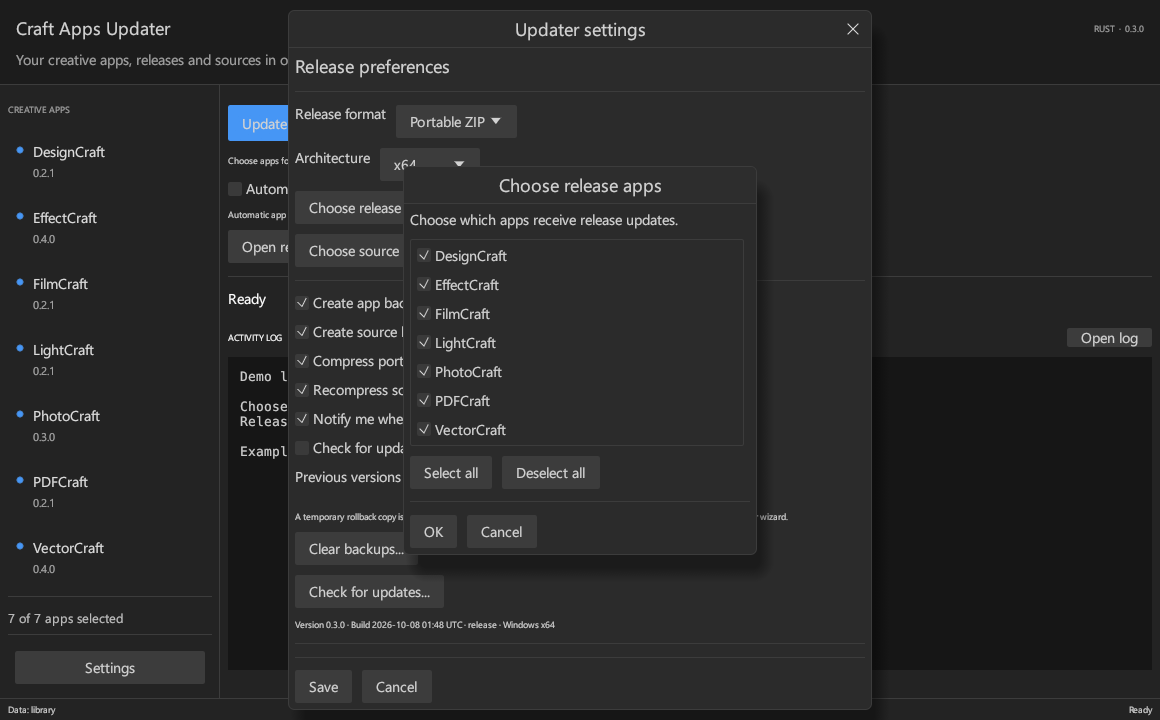
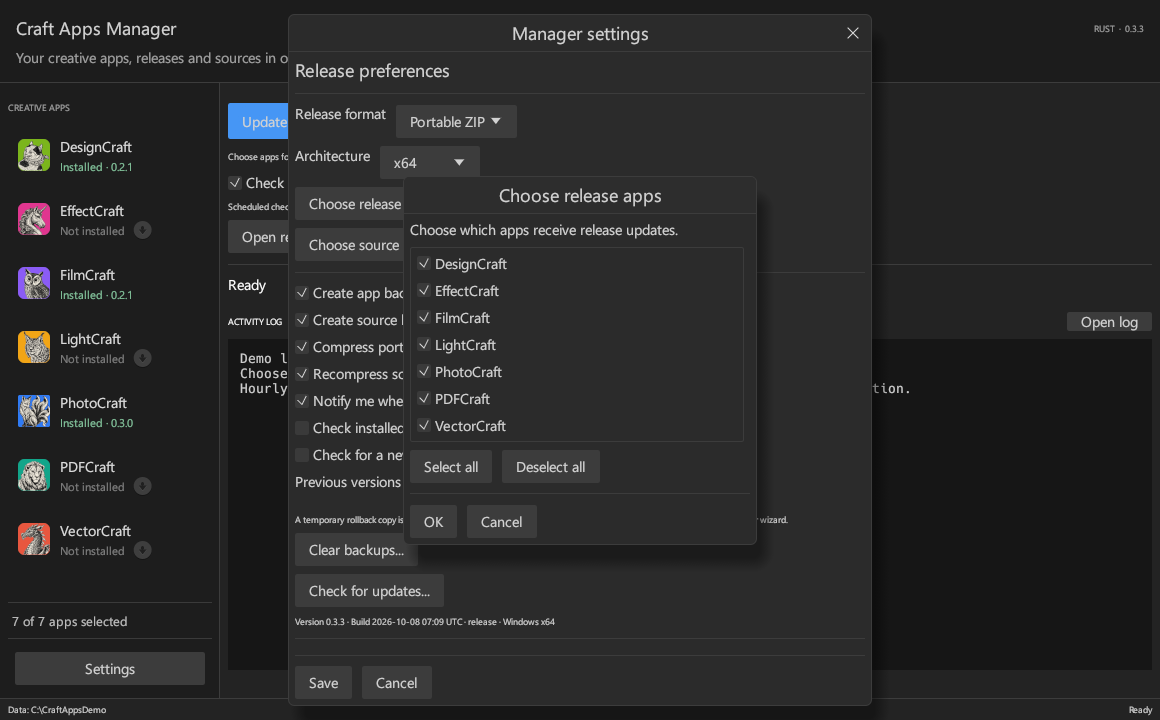
Replace video tour with current demo screenshots

diff --git a/examples/screenshots.rs b/examples/screenshots.rs
@@ -1,0 +1,83 @@
+//! Capture the real UI using a fictional library, without desktop or cursor pixels.
+#![windows_subsystem = "windows"]
+#[path = "../src/ui.rs"]
+mod ui;
+use eframe::egui;
+use std::{
+    path::PathBuf,
+    time::{Duration, Instant},
+};
+struct Capture {
+    app: ui::App,
+    output: PathBuf,
+    started: Instant,
+    requested: bool,
+}
+impl eframe::App for Capture {
+    fn update(&mut self, ctx: &egui::Context, frame: &mut eframe::Frame) {
+        self.app.update(ctx, frame);
+        let screenshot = ctx.input(|input| {
+            input.events.iter().find_map(|event| {
+                if let egui::Event::Screenshot { image, .. } = event {
+                    Some(image.clone())
+                } else {
+                    None
+                }
+            })
+        });
+        if let Some(image) = screenshot {
+            let pixels: Vec<u8> = image
+                .pixels
+                .iter()
+                .flat_map(|pixel| pixel.to_array())
+                .collect();
+            image::RgbaImage::from_raw(image.width() as u32, image.height() as u32, pixels)
+                .expect("Invalid screenshot size")
+                .save(&self.output)
+                .expect("Could not save screenshot");
+            ctx.send_viewport_cmd(egui::ViewportCommand::Close);
+        } else if !self.requested && self.started.elapsed() >= Duration::from_secs(4) {
+            self.requested = true;
+            ctx.send_viewport_cmd(egui::ViewportCommand::Screenshot(Default::default()));
+        }
+        ctx.request_repaint_after(Duration::from_millis(50));
+    }
+}
+fn main() -> anyhow::Result<()> {
+    let args: Vec<_> = std::env::args().collect();
+    let value = |key: &str| {
+        args.windows(2)
+            .find(|pair| pair[0] == key)
+            .map(|pair| PathBuf::from(&pair[1]))
+    };
+    let root = value("--root").expect("Supply a fictional demo library with --root");
+    let output = value("--output").expect("Supply --output screenshot.png");
+    let prefs = craft_apps_manager::model::Paths::new(root.clone(), None).preferences()?;
+    anyhow::ensure!(
+        !prefs.check_installed_apps_on_startup && !prefs.check_manager_on_startup,
+        "Disable startup network checks in the demo library"
+    );
+    let builder = args.iter().any(|arg| arg == "--builder");
+    let options = eframe::NativeOptions {
+        viewport: egui::ViewportBuilder::default().with_inner_size([1160.0, 720.0]),
+        ..Default::default()
+    };
+    eframe::run_native(
+        "Craft Apps Manager — Demo",
+        options,
+        Box::new(move |cc| {
+            Ok(Box::new(Capture {
+                app: ui::App::new(
+                    cc,
+                    craft_apps_manager::model::Paths::new(root.clone(), None),
+                    root,
+                    builder,
+                )?,
+                output,
+                started: Instant::now(),
+                requested: false,
+            }))
+        }),
+    )
+    .map_err(|error| anyhow::anyhow!(error.to_string()))
+}

diff --git a/README.md b/README.md
@@ -6,18 +6,18 @@ A Windows app for downloading, updating, and building the Craft apps from Storyt
 
 The interface is written in Rust and uses a compact dark theme. This is an independent project, not an official Storytold or Adobe app.
 
-## Video tour
-
-https://github.com/user-attachments/assets/9d39928a-3c10-43dd-a813-40183dcaeb27
-
-A short look at app controls, backups, settings, and the source builder.
-
 [Download the latest release](https://github.com/CryptoKey98/craft-apps-manager/releases/latest)
 
-The video and screenshots use an example library. Music: Prelude in C major, BWV 846, by Bach, performed by Kimiko Ishizaka ([CC0 recording and credit](docs/media/music-credit.txt)).
+![Craft Apps Manager startup view](docs/images/main.png)
+
+Screenshots show version 0.3.3 with a fictional demo library. Paths and build history are examples.
 
 <details>
 <summary>More screenshots</summary>
+
+**App controls** — launch an app, check its release, or manage backups.
+
+![FilmCraft app controls](docs/images/app-controls.png)
 
 **Settings** — choose release formats, backup preferences, and manager checks.
 
@@ -30,6 +30,10 @@ The video and screenshots use an example library. Music: Prelude in C major, BWV
 **Backups** — browse previous versions and choose restore or delete mode.
 
 ![FilmCraft backup management](docs/images/backups.png)
+
+**Builder** — build upstream source and review the build log and output.
+
+![Craft Apps Builder](docs/images/builder.png)
 
 </details>
 
